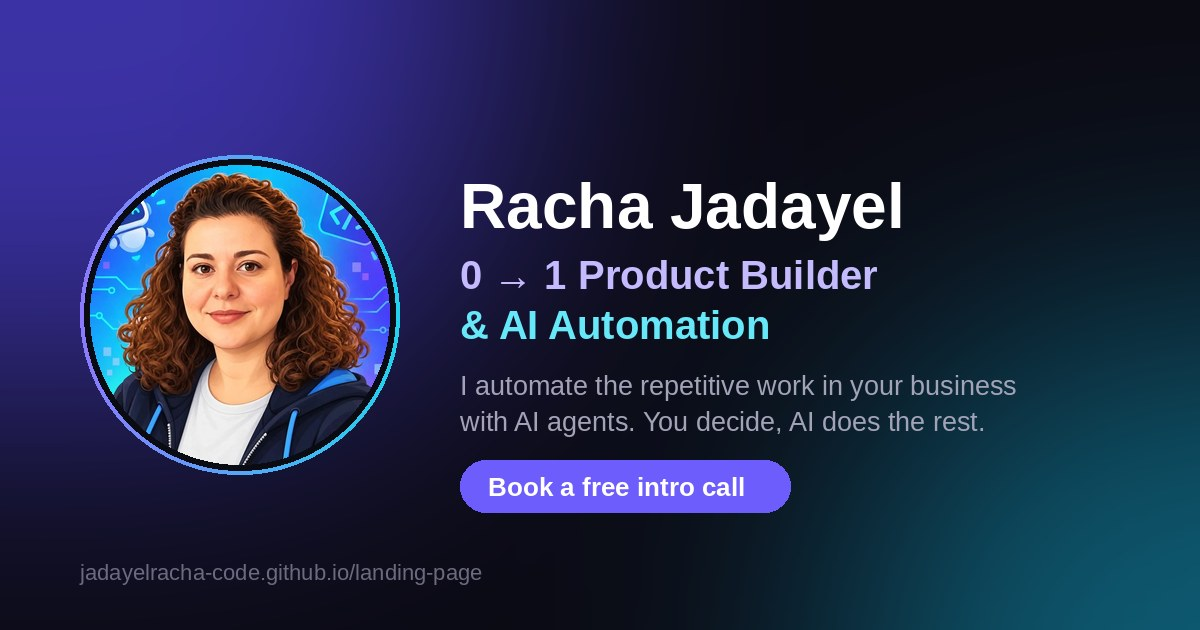
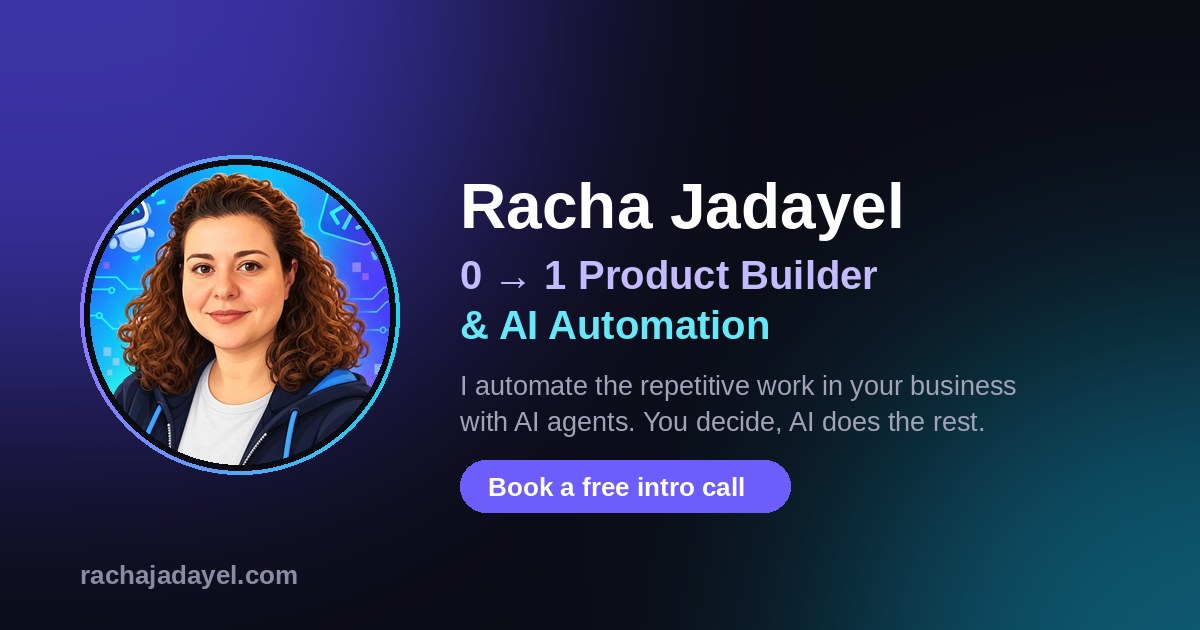
Move site to rachajadayel.com
- Canonical, Open Graph, X, structured data, sitemap, robots.txt,
  llms.txt and README now use https://rachajadayel.com/
- New QR code and share image for the new domain
- README documents the domain setup and renewal reminders

Claude-Session: https://claude.ai/code/session_01Rw9bPeTV22VbJRnXynLj2K

Changed region(s): [[0.0617, 0.8746, 0.4008, 0.9349]]

diff --git a/index.html b/index.html
@@ -7,7 +7,7 @@
   <meta name="description" content="0 to 1 product builder in Lisbon. I automate repetitive work with AI agents and n8n, and connect your tools with MCP. Book a free 30-minute intro call.">
   <meta name="author" content="Racha Jadayel">
   <meta name="robots" content="index, follow, max-image-preview:large">
-  <link rel="canonical" href="https://jadayelracha-code.github.io/landing-page/">
+  <link rel="canonical" href="https://rachajadayel.com/">
   <meta name="theme-color" content="#0b0b14">
 
   <!-- Social sharing (WhatsApp, LinkedIn, Slack, Facebook) -->
@@ -16,8 +16,8 @@
   <meta property="og:locale" content="en_US">
   <meta property="og:title" content="Racha Jadayel | 0 to 1 Product Builder &amp; AI Automation">
   <meta property="og:description" content="I automate the repetitive work in your business with AI agents. Book a free 30-minute intro call.">
-  <meta property="og:url" content="https://jadayelracha-code.github.io/landing-page/">
-  <meta property="og:image" content="https://jadayelracha-code.github.io/landing-page/assets/og-image.jpg">
+  <meta property="og:url" content="https://rachajadayel.com/">
+  <meta property="og:image" content="https://rachajadayel.com/assets/og-image.jpg">
   <meta property="og:image:width" content="1200">
   <meta property="og:image:height" content="630">
   <meta property="og:image:alt" content="Racha Jadayel, 0 to 1 product builder and AI automation. Book a free intro call.">
@@ -26,18 +26,18 @@
   <meta name="twitter:card" content="summary_large_image">
   <meta name="twitter:title" content="Racha Jadayel | 0 to 1 Product Builder &amp; AI Automation">
   <meta name="twitter:description" content="I automate the repetitive work in your business with AI agents. Book a free 30-minute intro call.">
-  <meta name="twitter:image" content="https://jadayelracha-code.github.io/landing-page/assets/og-image.jpg">
+  <meta name="twitter:image" content="https://rachajadayel.com/assets/og-image.jpg">
   <meta name="twitter:image:alt" content="Racha Jadayel, 0 to 1 product builder and AI automation.">
 
 
-  <link rel="icon" href="assets/favicon-32.png?v=67" type="image/png" sizes="32x32">
-  <link rel="icon" href="assets/favicon.png?v=67" type="image/png" sizes="64x64">
-  <link rel="apple-touch-icon" href="assets/apple-touch-icon.png?v=67">
+  <link rel="icon" href="assets/favicon-32.png?v=70" type="image/png" sizes="32x32">
+  <link rel="icon" href="assets/favicon.png?v=70" type="image/png" sizes="64x64">
+  <link rel="apple-touch-icon" href="assets/apple-touch-icon.png?v=70">
 
   <link rel="preconnect" href="https://fonts.googleapis.com">
   <link rel="preconnect" href="https://fonts.gstatic.com" crossorigin>
   <link href="https://fonts.googleapis.com/css2?family=Caveat:wght@600;700&family=Plus+Jakarta+Sans:wght@400;500;700;800&display=swap" rel="stylesheet">
-  <link rel="stylesheet" href="style.css?v=67">
+  <link rel="stylesheet" href="style.css?v=70">
   <script>document.documentElement.classList.add("js");</script>
 </head>
 <body>
@@ -60,13 +60,13 @@
       <div class="hero-copy">
         <div class="intro reveal">
           <p class="intro-name">Racha Jadayel <span class="avail"><span class="dot"></span>Open to projects</span></p>
-          <p class="intro-role"><span class="sr-only">0 to 1 product builder</span><span aria-hidden="true">0<svg class="ico arrow01"><use href="assets/icons.svg?v=67#i-arrow"/></svg>1 product builder</span> · AI automation</p>
+          <p class="intro-role"><span class="sr-only">0 to 1 product builder</span><span aria-hidden="true">0<svg class="ico arrow01"><use href="assets/icons.svg?v=70#i-arrow"/></svg>1 product builder</span> · AI automation</p>
         </div>
         <h1 class="reveal" style="--d:1">I automate the repetitive work in your business, so you <span class="grad">stop doing it by hand.</span></h1>
         <p class="lead reveal" style="--d:2">Start with a <span class="free">free</span> 30-minute intro call. No strings attached.</p>
         <div class="reveal" style="--d:3">
           <a class="btn btn-lg js-book" href="https://calendly.com/jadayelracha/30min-free-call" target="_blank" rel="noopener">
-            Book a <span class="free-pill">free</span> intro call <svg class="ico"><use href="assets/icons.svg?v=67#i-arrow"/></svg>
+            Book a <span class="free-pill">free</span> intro call <svg class="ico"><use href="assets/icons.svg?v=70#i-arrow"/></svg>
           </a>
         </div>
       </div>
@@ -99,10 +99,10 @@
       </div>
       <div class="marquees reveal">
         <div class="marquee">
-          <ul class="track"><li class="chip has-ico" style="--c:#EA4B71"><svg class="bico"><use href="assets/icons.svg?v=67#si-n8n"/></svg>n8n</li><li class="chip has-ico" style="--c:#D97757"><svg class="bico"><use href="assets/icons.svg?v=67#si-claude"/></svg>Claude</li><li class="chip has-ico" style="--c:#25D366"><svg class="bico"><use href="assets/icons.svg?v=67#si-whatsapp"/></svg>WhatsApp APIs</li><li class="chip has-ico" style="--c:#1877F2"><svg class="bico"><use href="assets/icons.svg?v=67#si-facebook"/></svg>Facebook Business APIs</li><li class="chip has-ico" style="--c:#3ECF8E"><svg class="bico"><use href="assets/icons.svg?v=67#si-supabase"/></svg>Supabase</li><li class="chip has-ico" style="--c:#4285F4"><svg class="bico"><use href="assets/icons.svg?v=67#si-google"/></svg>Google Workspace</li><li class="chip has-ico" style="--c:#FFFFFF"><svg class="bico"><use href="assets/icons.svg?v=67#si-notion"/></svg>Notion</li><li class="chip has-ico" style="--c:#7856FF"><svg class="bico"><use href="assets/icons.svg?v=67#si-mixpanel"/></svg>Mixpanel</li></ul>
+          <ul class="track"><li class="chip has-ico" style="--c:#EA4B71"><svg class="bico"><use href="assets/icons.svg?v=70#si-n8n"/></svg>n8n</li><li class="chip has-ico" style="--c:#D97757"><svg class="bico"><use href="assets/icons.svg?v=70#si-claude"/></svg>Claude</li><li class="chip has-ico" style="--c:#25D366"><svg class="bico"><use href="assets/icons.svg?v=70#si-whatsapp"/></svg>WhatsApp APIs</li><li class="chip has-ico" style="--c:#1877F2"><svg class="bico"><use href="assets/icons.svg?v=70#si-facebook"/></svg>Facebook Business APIs</li><li class="chip has-ico" style="--c:#3ECF8E"><svg class="bico"><use href="assets/icons.svg?v=70#si-supabase"/></svg>Supabase</li><li class="chip has-ico" style="--c:#4285F4"><svg class="bico"><use href="assets/icons.svg?v=70#si-google"/></svg>Google Workspace</li><li class="chip has-ico" style="--c:#FFFFFF"><svg class="bico"><use href="assets/icons.svg?v=70#si-notion"/></svg>Notion</li><li class="chip has-ico" style="--c:#7856FF"><svg class="bico"><use href="assets/icons.svg?v=70#si-mixpanel"/></svg>Mixpanel</li></ul>
         </div>
         <div class="marquee rev">
-          <ul class="track"><li class="chip has-ico" style="--c:#2684FF"><svg class="bico"><use href="assets/icons.svg?v=67#si-jira"/></svg>Jira</li><li class="chip has-ico" style="--c:#1868DB"><svg class="bico"><use href="assets/icons.svg?v=67#si-confluence"/></svg>Confluence</li><li class="chip has-ico" style="--c:#FFD02F"><svg class="bico"><use href="assets/icons.svg?v=67#si-miro"/></svg>Miro</li><li class="chip has-ico" style="--c:#C9D1D9"><svg class="bico"><use href="assets/icons.svg?v=67#si-github"/></svg>GitHub</li><li class="chip" style="--c:#3FB8AF">Devin</li><li class="chip has-ico" style="--c:#58E5BB"><svg class="bico"><use href="assets/icons.svg?v=67#si-windsurf"/></svg>Windsurf</li><li class="chip" style="--c:linear-gradient(135deg, #00C4CC, #7D2AE8)">Canva</li><li class="chip has-ico" style="--c:#F24E1E"><svg class="bico"><use href="assets/icons.svg?v=67#si-figma"/></svg>Figma</li><li class="chip has-ico" style="--c:#3A35FF"><svg class="bico"><use href="assets/icons.svg?v=67#si-maze"/></svg>Maze</li></ul>
+          <ul class="track"><li class="chip has-ico" style="--c:#2684FF"><svg class="bico"><use href="assets/icons.svg?v=70#si-jira"/></svg>Jira</li><li class="chip has-ico" style="--c:#1868DB"><svg class="bico"><use href="assets/icons.svg?v=70#si-confluence"/></svg>Confluence</li><li class="chip has-ico" style="--c:#FFD02F"><svg class="bico"><use href="assets/icons.svg?v=70#si-miro"/></svg>Miro</li><li class="chip has-ico" style="--c:#C9D1D9"><svg class="bico"><use href="assets/icons.svg?v=70#si-github"/></svg>GitHub</li><li class="chip" style="--c:#3FB8AF">Devin</li><li class="chip has-ico" style="--c:#58E5BB"><svg class="bico"><use href="assets/icons.svg?v=70#si-windsurf"/></svg>Windsurf</li><li class="chip" style="--c:linear-gradient(135deg, #00C4CC, #7D2AE8)">Canva</li><li class="chip has-ico" style="--c:#F24E1E"><svg class="bico"><use href="assets/icons.svg?v=70#si-figma"/></svg>Figma</li><li class="chip has-ico" style="--c:#3A35FF"><svg class="bico"><use href="assets/icons.svg?v=70#si-maze"/></svg>Maze</li></ul>
         </div>
       </div>
     </section>
@@ -114,22 +114,22 @@
         <p class="section-answer reveal" style="--d:1">I automate the repetitive, rule-based work that eats your week: lead follow-up, WhatsApp bots, reporting and document handling. Each workflow runs on AI agents and n8n, and you stay in control of the decisions that matter.</p>
         <div class="cards">
           <article class="card reveal" style="--d:0">
-            <span class="icon"><svg class="ico"><use href="assets/icons.svg?v=67#i-mail"/></svg></span>
+            <span class="icon"><svg class="ico"><use href="assets/icons.svg?v=70#i-mail"/></svg></span>
             <h3>Lead follow-up</h3>
             <p>New leads get a reply, a reminder and a place in your CRM, without you copying anything across.</p>
           </article>
           <article class="card reveal" style="--d:1">
-            <span class="icon"><svg class="ico"><use href="assets/icons.svg?v=67#i-chat"/></svg></span>
+            <span class="icon"><svg class="ico"><use href="assets/icons.svg?v=70#i-chat"/></svg></span>
             <h3>WhatsApp bots</h3>
             <p>Answer common questions, take bookings and match people to each other right inside WhatsApp.</p>
           </article>
           <article class="card reveal" style="--d:2">
-            <span class="icon"><svg class="ico"><use href="assets/icons.svg?v=67#i-chart"/></svg></span>
+            <span class="icon"><svg class="ico"><use href="assets/icons.svg?v=70#i-chart"/></svg></span>
             <h3>Reporting</h3>
             <p>Numbers from your tools pulled together and sent to you on a schedule, instead of built by hand.</p>
           </article>
           <article class="card reveal" style="--d:3">
-            <span class="icon"><svg class="ico"><use href="assets/icons.svg?v=67#i-doc"/></svg></span>
+            <span class="icon"><svg class="ico"><use href="assets/icons.svg?v=70#i-doc"/></svg></span>
             <h3>Document handling</h3>
             <p>Invoices, forms and PDFs read, sorted and filed by AI, with the key details pulled out for you.</p>
           </article>
@@ -254,9 +254,9 @@
           <h2 id="mcp-title" class="reveal">Connect all your tools to one AI agent</h2>
           <p class="reveal" style="--d:1">I set up MCP (Model Context Protocol) connections so one AI agent, like Devin or Claude, can work across Jira, Confluence, Miro, GitHub, Figma, Notion and more. Ask once in plain language, and it pulls the ticket, reads the page or updates the board for you.</p>
           <ul class="ticks">
-            <li class="reveal" style="--d:2"><svg class="ico"><use href="assets/icons.svg?v=67#i-check"/></svg> Configured for your team's tools and workflows</li>
-            <li class="reveal" style="--d:3"><svg class="ico"><use href="assets/icons.svg?v=67#i-check"/></svg> Access set up with the right permissions</li>
-            <li class="reveal" style="--d:4"><svg class="ico"><use href="assets/icons.svg?v=67#i-check"/></svg> Less switching between tabs, more getting work done</li>
+            <li class="reveal" style="--d:2"><svg class="ico"><use href="assets/icons.svg?v=70#i-check"/></svg> Configured for your team's tools and workflows</li>
+            <li class="reveal" style="--d:3"><svg class="ico"><use href="assets/icons.svg?v=70#i-check"/></svg> Access set up with the right permissions</li>
+            <li class="reveal" style="--d:4"><svg class="ico"><use href="assets/icons.svg?v=70#i-check"/></svg> Less switching between tabs, more getting work done</li>
           </ul>
         </div>
 
@@ -321,7 +321,7 @@
               <h3>The Fourth Player</h3>
               <p>A live WhatsApp bot that matches padel players into games. Message it and see it work.</p>
               <p class="pills"><span>n8n</span><span>AI agents</span><span>WhatsApp API</span><span>Founder · 2026</span></p>
-              <div class="feature-actions"><a class="btn btn-outline" href="https://wa.me/351960393194" target="_blank" rel="noopener">Try it on WhatsApp <svg class="ico"><use href="assets/icons.svg?v=67#i-arrow"/></svg></a><a class="btn btn-outline" href="https://thefourthplayer.com/" target="_blank" rel="noopener">Visit our website <svg class="ico"><use href="assets/icons.svg?v=67#i-arrow"/></svg></a></div>
+              <div class="feature-actions"><a class="btn btn-outline" href="https://wa.me/351960393194" target="_blank" rel="noopener">Try it on WhatsApp <svg class="ico"><use href="assets/icons.svg?v=70#i-arrow"/></svg></a><a class="btn btn-outline" href="https://thefourthplayer.com/" target="_blank" rel="noopener">Visit our website <svg class="ico"><use href="assets/icons.svg?v=70#i-arrow"/></svg></a></div>
             </article>
           </li>
           <li class="tile tile-stat reveal" style="--d:1">
@@ -441,8 +441,8 @@
         <div class="cta reveal">
           <h2 id="cta-title">Let's see what AI can take off your plate 🚀</h2>
           <p class="lead">A <span class="free">free</span> 30-minute intro call to see if we're a fit.</p>
-          <a class="btn btn-light btn-lg js-book" href="https://calendly.com/jadayelracha/30min-free-call" target="_blank" rel="noopener">Book a <span class="free-pill">free</span> intro call <svg class="ico"><use href="assets/icons.svg?v=67#i-arrow"/></svg></a>
-          <p class="links"><a class="li-btn" href="https://www.linkedin.com/in/rashajadayel" target="_blank" rel="noopener"><svg class="li-ico" aria-hidden="true"><use href="assets/icons.svg?v=67#i-linkedin"/></svg> Connect on LinkedIn</a></p>
+          <a class="btn btn-light btn-lg js-book" href="https://calendly.com/jadayelracha/30min-free-call" target="_blank" rel="noopener">Book a <span class="free-pill">free</span> intro call <svg class="ico"><use href="assets/icons.svg?v=70#i-arrow"/></svg></a>
+          <p class="links"><a class="li-btn" href="https://www.linkedin.com/in/rashajadayel" target="_blank" rel="noopener"><svg class="li-ico" aria-hidden="true"><use href="assets/icons.svg?v=70#i-linkedin"/></svg> Connect on LinkedIn</a></p>
         </div>
       </div>
     </section>
@@ -452,7 +452,7 @@
     <div class="wrap">© <span id="year">2026</span> Racha Jadayel · Lisbon</div>
   </footer>
 
-  <script src="script.js?v=67" defer></script>
+  <script src="script.js?v=70" defer></script>
   <!-- Structured data for search engines -->
   <script type="application/ld+json">
 {
@@ -460,50 +460,50 @@
   "@graph": [
     {
       "@type": "WebSite",
-      "@id": "https://jadayelracha-code.github.io/landing-page/#website",
-      "url": "https://jadayelracha-code.github.io/landing-page/",
+      "@id": "https://rachajadayel.com/#website",
+      "url": "https://rachajadayel.com/",
       "name": "Racha Jadayel",
       "inLanguage": "en",
       "publisher": {
-        "@id": "https://jadayelracha-code.github.io/landing-page/#racha"
+        "@id": "https://rachajadayel.com/#racha"
       }
     },
     {
       "@type": "ProfilePage",
-      "@id": "https://jadayelracha-code.github.io/landing-page/#page",
-      "url": "https://jadayelracha-code.github.io/landing-page/",
+      "@id": "https://rachajadayel.com/#page",
+      "url": "https://rachajadayel.com/",
       "name": "Racha Jadayel | 0 to 1 Product Builder & AI Automation",
       "isPartOf": {
-        "@id": "https://jadayelracha-code.github.io/landing-page/#website"
+        "@id": "https://rachajadayel.com/#website"
       },
       "mainEntity": {
-        "@id": "https://jadayelracha-code.github.io/landing-page/#racha"
+        "@id": "https://rachajadayel.com/#racha"
       },
       "primaryImageOfPage": {
-        "@id": "https://jadayelracha-code.github.io/landing-page/#photo"
+        "@id": "https://rachajadayel.com/#photo"
       },
       "inLanguage": "en",
-      "dateModified": "2026-11-08"
+      "dateModified": "2026-11-09"
     },
     {
       "@type": "ImageObject",
-      "@id": "https://jadayelracha-code.github.io/landing-page/#photo",
-      "url": "https://jadayelracha-code.github.io/landing-page/assets/photo.jpg",
-      "contentUrl": "https://jadayelracha-code.github.io/landing-page/assets/photo.jpg",
+      "@id": "https://rachajadayel.com/#photo",
+      "url": "https://rachajadayel.com/assets/photo.jpg",
+      "contentUrl": "https://rachajadayel.com/assets/photo.jpg",
       "caption": "Racha Jadayel"
     },
     {
       "@type": "Person",
-      "@id": "https://jadayelracha-code.github.io/landing-page/#racha",
+      "@id": "https://rachajadayel.com/#racha",
       "name": "Racha Jadayel",
       "alternateName": "Rasha Jadayel",
       "givenName": "Racha",
       "familyName": "Jadayel",
       "description": "0 to 1 product builder and AI automation consultant in Lisbon. Pharmacist turned founder turned product builder, helping startups and freelancers automate and accelerate their work with AI agents.",
       "jobTitle": "0 to 1 Product Builder & AI Automation Consultant",
-      "url": "https://jadayelracha-code.github.io/landing-page/",
+      "url": "https://rachajadayel.com/",
       "image": {
-        "@id": "https://jadayelracha-code.github.io/landing-page/#photo"
+        "@id": "https://rachajadayel.com/#photo"
       },
       "email": "mailto:jadayelracha@gmail.com",
       "address": {
@@ -515,7 +515,7 @@
         "https://www.linkedin.com/in/rashajadayel"
       ],
       "worksFor": {
-        "@id": "https://jadayelracha-code.github.io/landing-page/#cgm"
+        "@id": "https://rachajadayel.com/#cgm"
       },
       "hasOccupation": {
         "@type": "Occupation",
@@ -549,20 +549,20 @@
         "TechWomen Fellow, U.S. Department of State (2020–2021)"
       ],
       "makesOffer": {
-        "@id": "https://jadayelracha-code.github.io/landing-page/#intro-call"
+        "@id": "https://rachajadayel.com/#intro-call"
       }
     },
     {
       "@type": "ProfessionalService",
-      "@id": "https://jadayelracha-code.github.io/landing-page/#service",
+      "@id": "https://rachajadayel.com/#service",
       "name": "Racha Jadayel · AI Automation Consulting",
-      "url": "https://jadayelracha-code.github.io/landing-page/",
-      "image": "https://jadayelracha-code.github.io/landing-page/assets/og-image.jpg",
+      "url": "https://rachajadayel.com/",
+      "image": "https://rachajadayel.com/assets/og-image.jpg",
       "provider": {
-        "@id": "https://jadayelracha-code.github.io/landing-page/#racha"
+        "@id": "https://rachajadayel.com/#racha"
       },
       "founder": {
-        "@id": "https://jadayelracha-code.github.io/landing-page/#racha"
+        "@id": "https://rachajadayel.com/#racha"
       },
       "description": "AI automation and AI agent consulting for startups and freelancers: discovery first, then AI agents and n8n workflows, tested with evals where it matters.",
       "address": {
@@ -654,37 +654,37 @@
         ]
       },
       "makesOffer": {
-        "@id": "https://jadayelracha-code.github.io/landing-page/#intro-call"
+        "@id": "https://rachajadayel.com/#intro-call"
       }
     },
     {
       "@type": "Offer",
-      "@id": "https://jadayelracha-code.github.io/landing-page/#intro-call",
+      "@id": "https://rachajadayel.com/#intro-call",
       "name": "Free 30-minute intro call",
       "price": "0",
       "priceCurrency": "EUR",
       "url": "https://calendly.com/jadayelracha/30min-free-call",
       "availability": "https://schema.org/InStock",
       "offeredBy": {
-        "@id": "https://jadayelracha-code.github.io/landing-page/#racha"
+        "@id": "https://rachajadayel.com/#racha"
       }
     },
     {
       "@type": "Organization",
-      "@id": "https://jadayelracha-code.github.io/landing-page/#cgm",
+      "@id": "https://rachajadayel.com/#cgm",
       "name": "CompuGroup Medical"
     },
     {
       "@type": "Organization",
-      "@id": "https://jadayelracha-code.github.io/landing-page/#vw",
+      "@id": "https://rachajadayel.com/#vw",
       "name": "Volkswagen Digital Solutions"
     },
     {
       "@type": "Organization",
-      "@id": "https://jadayelracha-code.github.io/landing-page/#pharmaklik",
+      "@id": "https://rachajadayel.com/#pharmaklik",
       "name": "Pharmaklik",
       "founder": {
-        "@id": "https://jadayelracha-code.github.io/landing-page/#racha"
+        "@id": "https://rachajadayel.com/#racha"
       },
       "foundingDate": "2017",
       "foundingLocation": {
@@ -699,11 +699,11 @@
     },
     {
       "@type": "Organization",
-      "@id": "https://jadayelracha-code.github.io/landing-page/#saydale",
+      "@id": "https://rachajadayel.com/#saydale",
       "name": "Saydale.com",
       "url": "https://saydale.com/",
       "founder": {
-        "@id": "https://jadayelracha-code.github.io/landing-page/#racha"
+        "@id": "https://rachajadayel.com/#racha"
       },
       "foundingDate": "2020",
       "award": "Berytech Healthcare Initiative 2020",
@@ -711,20 +711,20 @@
     },
     {
       "@type": "Organization",
-      "@id": "https://jadayelracha-code.github.io/landing-page/#tfp",
+      "@id": "https://rachajadayel.com/#tfp",
       "name": "The Fourth Player",
       "url": "https://thefourthplayer.com/",
       "founder": {
-        "@id": "https://jadayelracha-code.github.io/landing-page/#racha"
+        "@id": "https://rachajadayel.com/#racha"
       },
       "foundingDate": "2026",
       "description": "WhatsApp-native padel matchmaking product built with n8n and AI."
     },
     {
       "@type": "FAQPage",
-      "@id": "https://jadayelracha-code.github.io/landing-page/#faq",
+      "@id": "https://rachajadayel.com/#faq",
       "isPartOf": {
-        "@id": "https://jadayelracha-code.github.io/landing-page/#page"
+        "@id": "https://rachajadayel.com/#page"
       },
       "mainEntity": [
         {

diff --git a/README.md b/README.md
@@ -4,7 +4,7 @@ One-page, mobile-first site for people I meet at Web Summit. They scan a QR code
 
 Plain HTML, CSS and a little JS. No framework, no build step.
 
-**Live URL:** https://jadayelracha-code.github.io/landing-page/
+**Live URL:** https://rachajadayel.com/
 
 ## Page sections
 
@@ -32,8 +32,9 @@ Plain HTML, CSS and a little JS. No framework, no build step.
 | `assets/cmu-portugal-academy.png` | CMU Portugal Academy logo |
 | `assets/favicon*.png`, `assets/apple-touch-icon.png` | Browser and phone icons |
 | `assets/icons.svg` | All line and brand icons (one file, referenced by the page) |
+| `CNAME` | Custom domain for GitHub Pages (rachajadayel.com). Do not delete |
 | `sitemap.xml` | Sitemap with image entries, to submit in Google Search Console |
-| `robots.txt` | Allows search engines and AI crawlers. Only takes effect at a domain root, so after the custom domain is set up |
+| `robots.txt` | Allows search engines and AI crawlers |
 | `llms.txt` | Plain-text summary for AI tools (an emerging, optional convention) |
 
 ## AI search (GEO) setup
@@ -57,13 +58,11 @@ Also replace the same link in `index.html` (buttons, FAQ and structured data), s
 
 ## After an update
 
-Files are loaded with a version number (`style.css?v=61`). Raise the number in `index.html` after changing CSS or JS, so browsers load the new files instead of an old saved copy.
+Files are loaded with a version number (`style.css?v=70`). Raise the number in `index.html` after changing CSS or JS, so browsers load the new files instead of an old saved copy.
 
-## Moving to a custom domain
+## Domain
 
-1. Add the domain in **Settings → Pages → Custom domain** and set up DNS as GitHub describes.
-2. Replace `https://jadayelracha-code.github.io/landing-page/` everywhere in `index.html` (canonical, Open Graph, X, structured data), `sitemap.xml`, `robots.txt` and `llms.txt`.
-3. Regenerate `assets/qr.png` for the new address.
+The site runs on **rachajadayel.com**, registered at Cloudflare (DNS only records pointing to GitHub Pages: 4 A, 4 AAAA and a `www` CNAME). The `CNAME` file in this repo tells GitHub Pages to serve the custom domain. Renewal reminders are in Google Calendar for 2 to 9 November 2029.
 
 ## Preview locally
 
